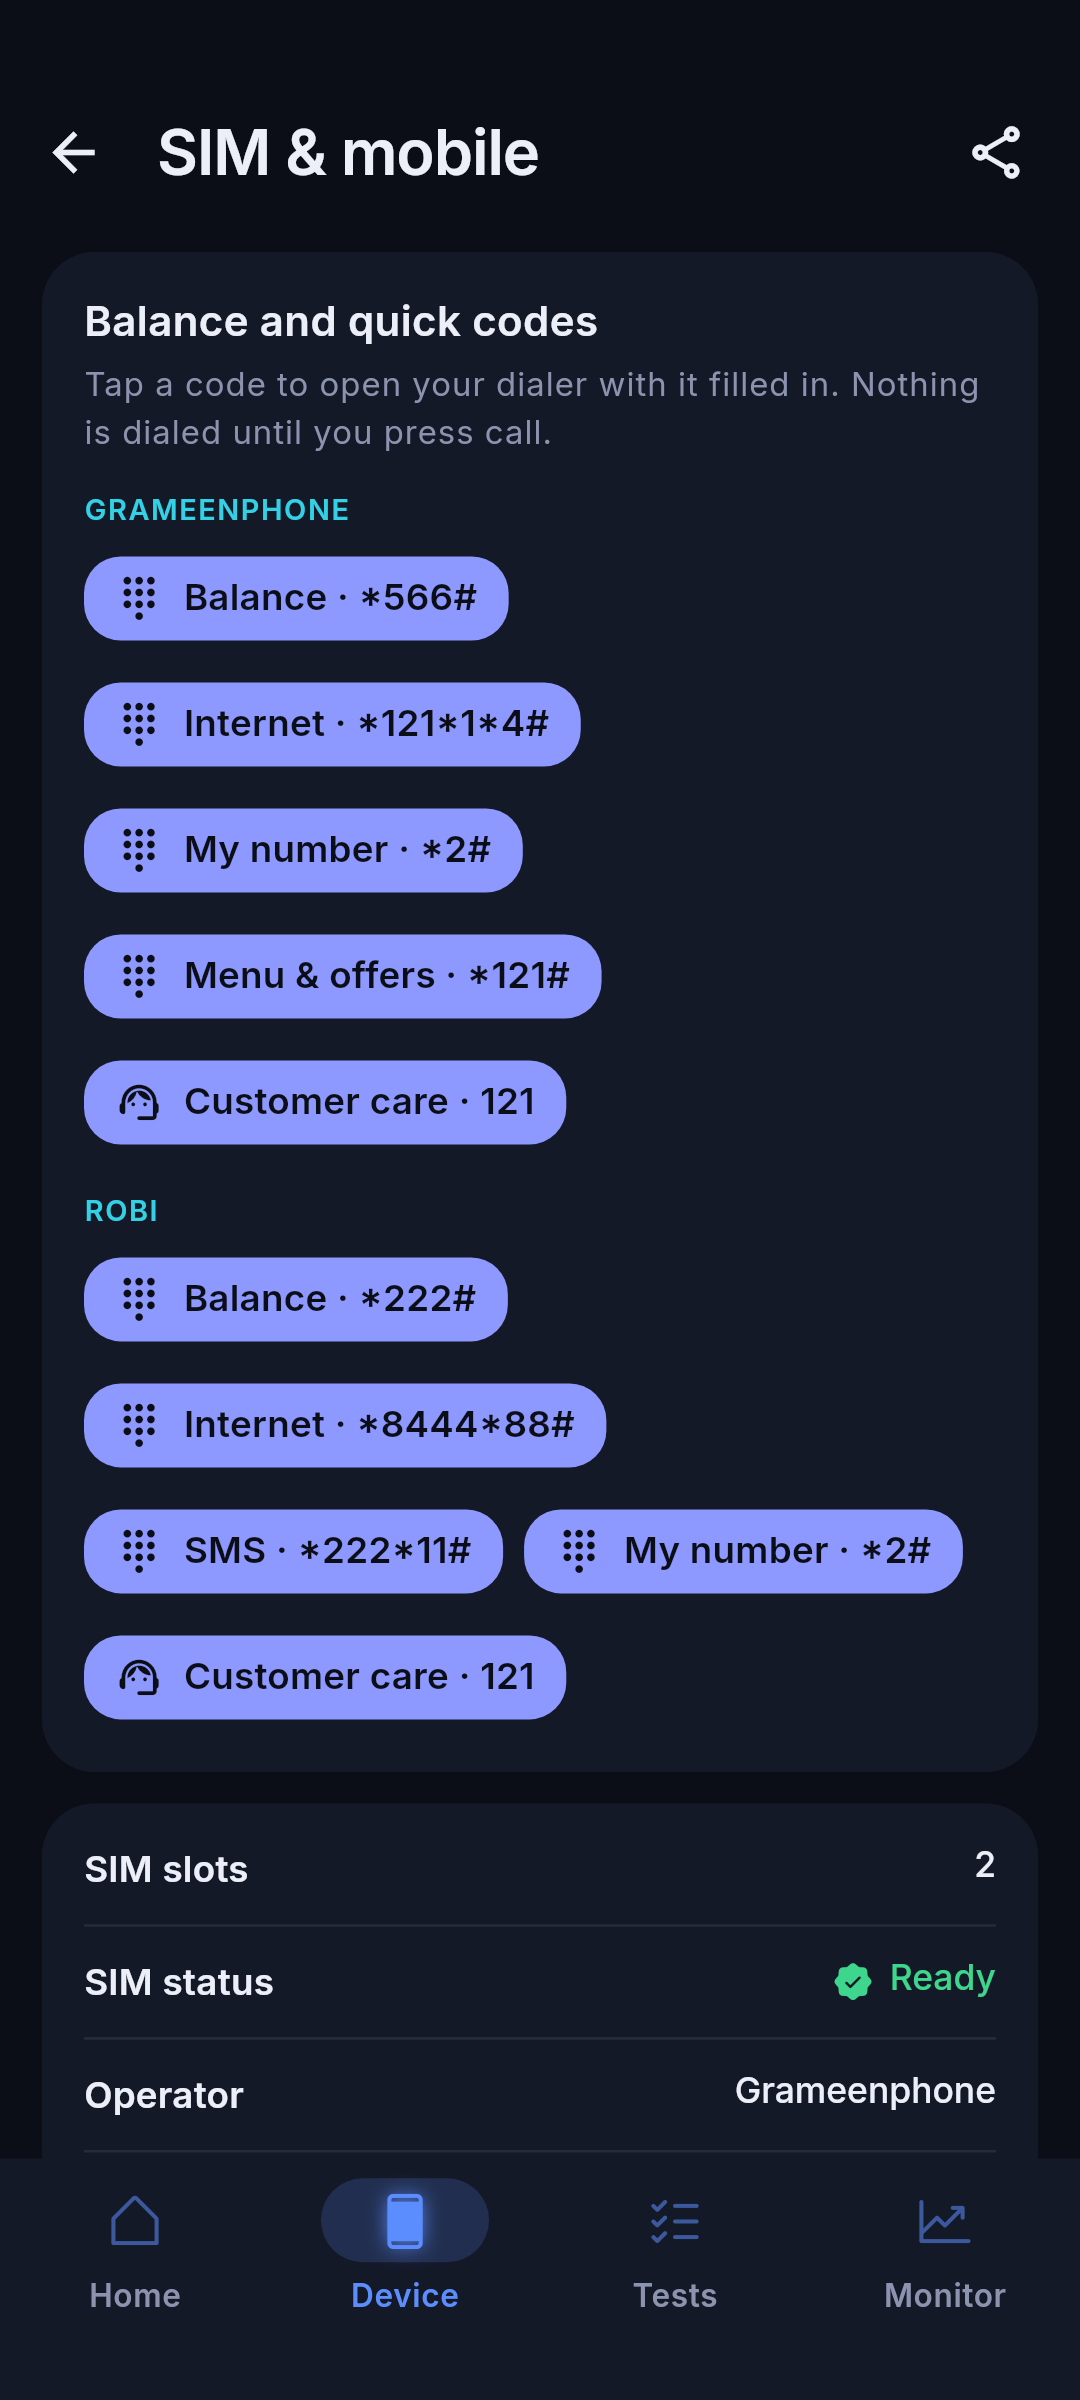
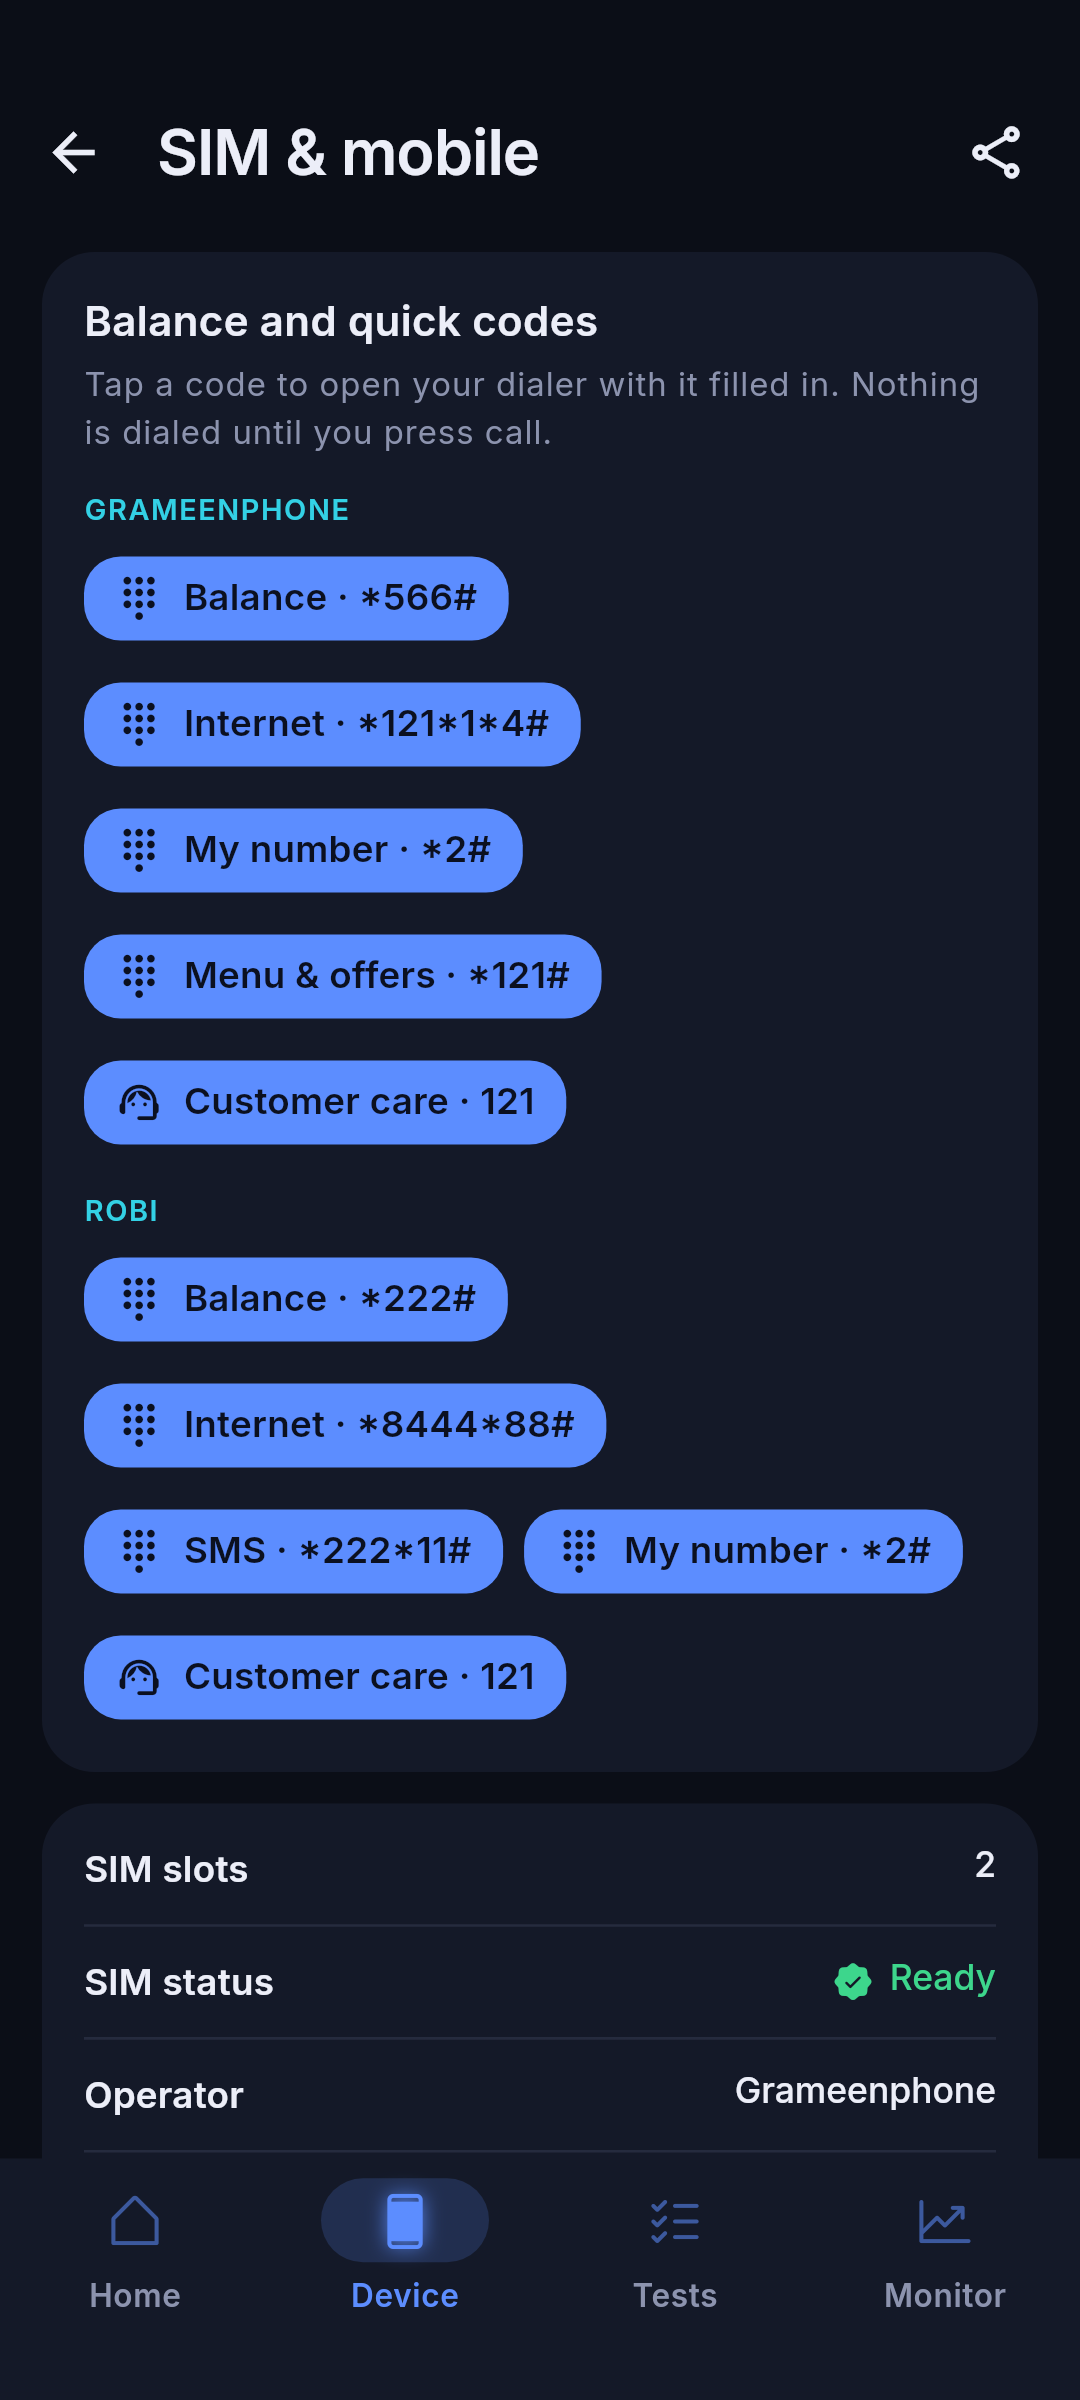
Azure blue accent replaces violet in both themes
- Dark: #5C8DFF with dark text on buttons; the bottom bar and side rail
  use the same accent (glow kept on the selected tab).
- Light: #2563EB with white text.
- Hero cards (Tests checkup, Device) move to matching blue gradients.
Metric colours (CPU, memory, battery, storage, network, heat) are
unchanged so they keep their meaning.

Claude-Session: https://claude.ai/code/session_01HzGgrf8mJzWqPVbmwGG37y

Changed region(s): [[0.0611, 0.2188, 0.8861, 0.7188]]

diff --git a/systemx/lib/core/theme/app_theme.dart b/systemx/lib/core/theme/app_theme.dart
@@ -10,10 +10,6 @@ abstract final class SxRadius {
   static const control = 14.0;
 }
 
-/// Navigation highlight in dark themes: a bright blue that sits between the
-/// accent's indigo and the storage blue, readable on the dark cards.
-const navBlue = Color(0xFF5C8DFF);
-
 ThemeData buildTheme(SxColors c, Brightness brightness) {
   final scheme = ColorScheme(
     brightness: brightness,
@@ -68,10 +64,9 @@ ThemeData buildTheme(SxColors c, Brightness brightness) {
     navigationBarTheme: NavigationBarThemeData(
       backgroundColor: c.card,
       surfaceTintColor: Colors.transparent,
-      // Dark themes: a bright blue from the accent family, with a glow on
-      // the selected tab.
+      // The accent blue; in dark themes the selected tab also glows.
       indicatorColor: isDark
-          ? navBlue.withValues(alpha: 0.18)
+          ? c.accent.withValues(alpha: 0.18)
           : c.accent.withValues(alpha: 0.24),
       height: 68,
       labelTextStyle: WidgetStateProperty.resolveWith((s) {
@@ -80,7 +75,7 @@ ThemeData buildTheme(SxColors c, Brightness brightness) {
           SxFonts.body,
           12,
           FontWeight.w600,
-          color: on ? (isDark ? navBlue : c.ink) : c.muted,
+          color: on ? (isDark ? c.accent : c.ink) : c.muted,
         );
       }),
       iconTheme: WidgetStateProperty.resolveWith((s) {
@@ -90,9 +85,9 @@ ThemeData buildTheme(SxColors c, Brightness brightness) {
         }
         return IconThemeData(
           size: 24,
-          color: on ? navBlue : navBlue.withValues(alpha: 0.55),
+          color: on ? c.accent : c.accent.withValues(alpha: 0.55),
           shadows: on
-              ? [Shadow(color: navBlue.withValues(alpha: 0.85), blurRadius: 16)]
+              ? [Shadow(color: c.accent.withValues(alpha: 0.85), blurRadius: 16)]
               : null,
         );
       }),
@@ -101,21 +96,21 @@ ThemeData buildTheme(SxColors c, Brightness brightness) {
     navigationRailTheme: NavigationRailThemeData(
       backgroundColor: c.card,
       indicatorColor: isDark
-          ? navBlue.withValues(alpha: 0.18)
+          ? c.accent.withValues(alpha: 0.18)
           : c.accent.withValues(alpha: 0.24),
       selectedIconTheme: isDark
           ? IconThemeData(
               size: 24,
-              color: navBlue,
-              shadows: [Shadow(color: navBlue.withValues(alpha: 0.85), blurRadius: 16)],
+              color: c.accent,
+              shadows: [Shadow(color: c.accent.withValues(alpha: 0.85), blurRadius: 16)],
             )
           : IconThemeData(size: 24, color: c.accent),
       unselectedIconTheme: IconThemeData(
         size: 24,
-        color: isDark ? navBlue.withValues(alpha: 0.55) : c.muted,
+        color: isDark ? c.accent.withValues(alpha: 0.55) : c.muted,
       ),
       selectedLabelTextStyle:
-          sxStyle(SxFonts.body, 12, FontWeight.w600, color: isDark ? navBlue : c.ink),
+          sxStyle(SxFonts.body, 12, FontWeight.w600, color: isDark ? c.accent : c.ink),
       unselectedLabelTextStyle: sxStyle(SxFonts.body, 12, FontWeight.w600, color: c.muted),
     ),
     filledButtonTheme: FilledButtonThemeData(

diff --git a/systemx/lib/core/theme/sx_colors.dart b/systemx/lib/core/theme/sx_colors.dart
@@ -68,8 +68,8 @@ class SxColors extends ThemeExtension<SxColors> {
     ink: Color(0xFFECEEF8),
     muted: Color(0xFF8C93AE),
     line: Color(0xFF252B3E),
-    accent: Color(0xFF8E99FF),
-    onAccent: Color(0xFF0B0E17),
+    accent: Color(0xFF5C8DFF),
+    onAccent: Color(0xFF0B1020),
     cpu: Color(0xFFFF9447),
     ram: Color(0xFFA98BFF),
     battery: Color(0xFF3DD68C),
@@ -82,9 +82,9 @@ class SxColors extends ThemeExtension<SxColors> {
     good: Color(0xFF3DD68C),
     warn: Color(0xFFFFB547),
     bad: Color(0xFFFF6B6F),
-    heroStart: Color(0xFF2B336F),
-    heroEnd: Color(0xFF171C31),
-    onHero: Color(0xFFC6CBFF),
+    heroStart: Color(0xFF1E3A7B),
+    heroEnd: Color(0xFF141A2E),
+    onHero: Color(0xFFCFDDFF),
   );
 
   static final amoled = dark.copyWith(
@@ -102,7 +102,7 @@ class SxColors extends ThemeExtension<SxColors> {
     ink: Color(0xFF161A2C),
     muted: Color(0xFF5E6584),
     line: Color(0xFFE3E5F0),
-    accent: Color(0xFF4553E0),
+    accent: Color(0xFF2563EB),
     onAccent: Color(0xFFFFFFFF),
     cpu: Color(0xFFE8711F),
     ram: Color(0xFF8452F0),
@@ -116,9 +116,9 @@ class SxColors extends ThemeExtension<SxColors> {
     good: Color(0xFF14965A),
     warn: Color(0xFFC27406),
     bad: Color(0xFFD23A41),
-    heroStart: Color(0xFF4553E0),
-    heroEnd: Color(0xFF2C37B0),
-    onHero: Color(0xFFE3E6FF),
+    heroStart: Color(0xFF2563EB),
+    heroEnd: Color(0xFF1D4ED8),
+    onHero: Color(0xFFDCE7FF),
   );
 
   @override

diff --git a/systemx/screenshots/graphics_test.dart b/systemx/screenshots/graphics_test.dart
@@ -8,7 +8,7 @@ import 'package:flutter_test/flutter_test.dart';
 import 'package:systemx/ui/widgets/logo_mark.dart';
 
 const _ink = Color(0xFF0B0E17);
-const _signalDeep = Color(0xFF4553E0);
+const _signalDeep = Color(0xFF2563EB);
 const _white = Color(0xFFECEEF8);
 
 Future<void> _font(String family, String path) async {
